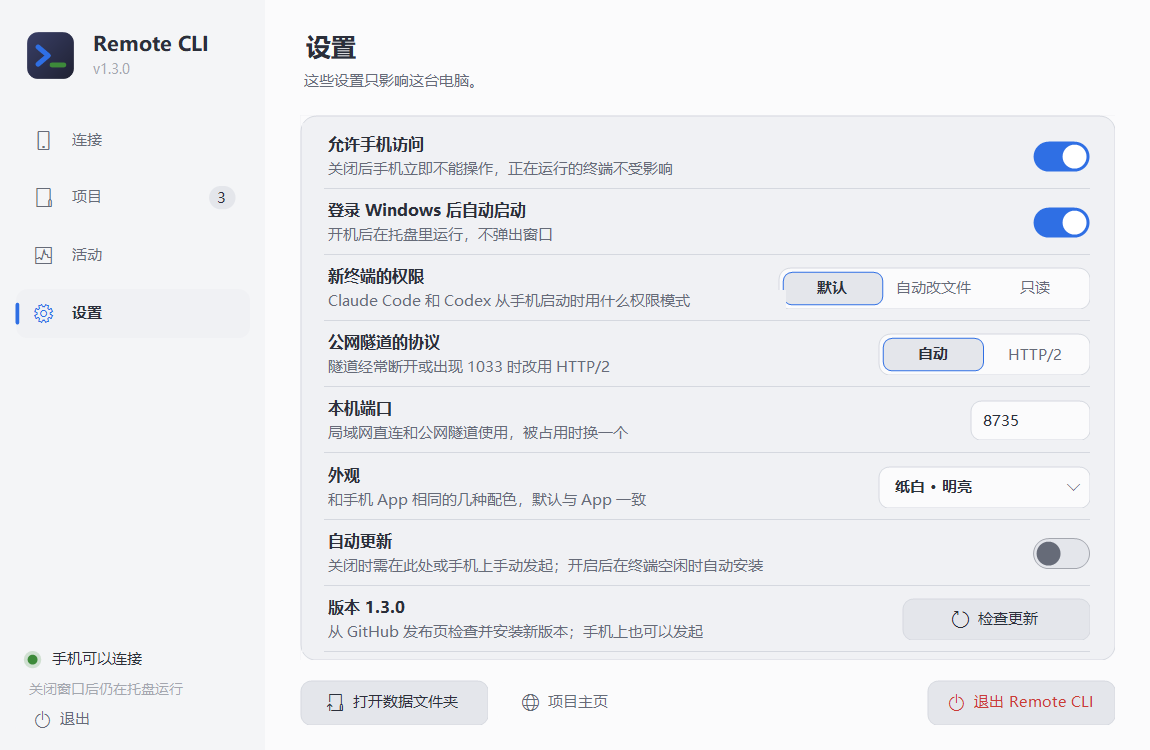
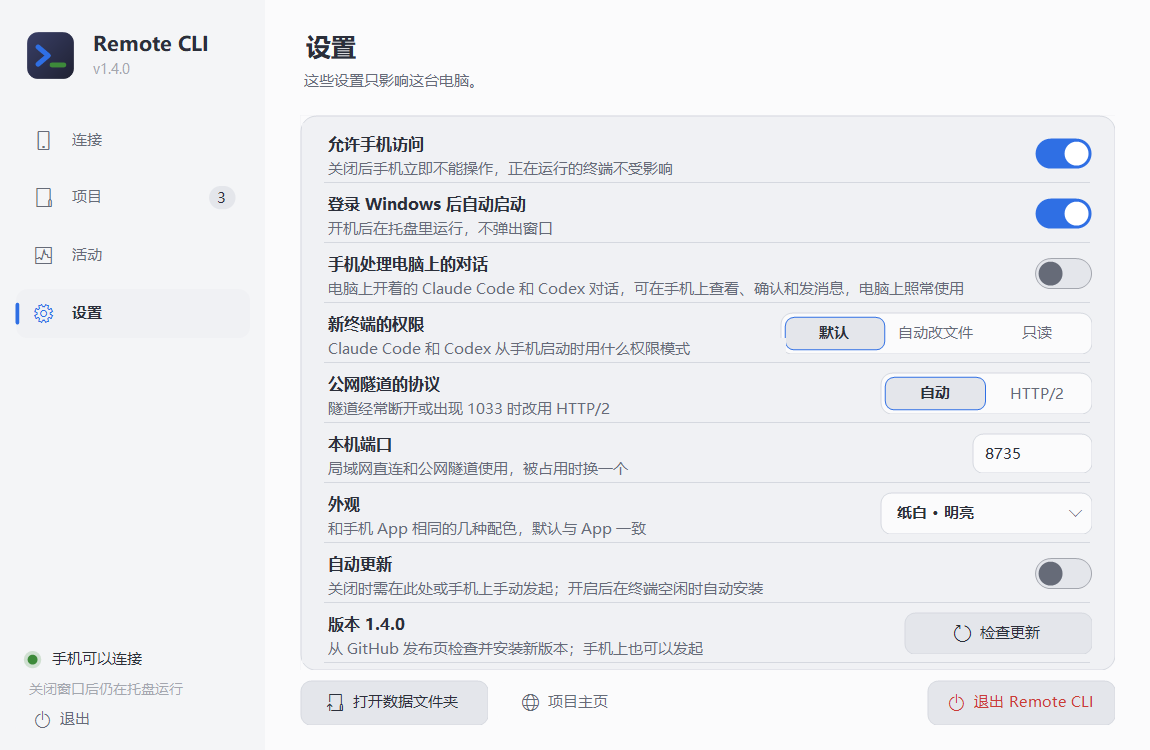
chore(release): 1.4.0; the picture of the settings shows the new switch

diff --git a/tests/phone_line_check.py b/tests/phone_line_check.py
@@ -173,10 +173,11 @@ def pages(chrome, out, folder, first, addresses, config):
         assert value("!document.getElementById('more') && !document.getElementById('look')")
         press("document.getElementById('settings')")
         until(lambda: (value("location.pathname") or "").endswith("/computer/") and value("document.querySelectorAll('#lines li').length") == 3
-              and value("document.querySelectorAll('#settings .pick, #settings .flip').length") == 4, "the page of settings", 20)
+              and value("document.querySelectorAll('#settings .pick, #settings .flip').length") == 5, "the page of settings", 20)
         # the lines (the local network, the tunnel, and one row for the relays of one's own: there are none for everyone
-        # here), the four settings and the version of the program; the look; signing out. The app's own row is for the app
-        assert value("document.querySelectorAll('#settings li').length") == 5 and value("document.querySelectorAll('#skins button').length") >= 6
+        # here), the five settings and the version of the program; the look; signing out. The app's own row is for the app.
+        # A copy with a data folder of its own, as this one, has not put its hooks into the tools' settings: that switch is off
+        assert value("document.querySelectorAll('#settings li').length") == 6 and value("Array.from(document.querySelectorAll('#settings li')).find(li => li.textContent.includes('手机处理电脑上的对话')).querySelector('.flip').getAttribute('aria-checked')") == "false" and value("document.querySelectorAll('#skins button').length") >= 6
         assert value("document.getElementById('part-app').hidden") is True and value("document.querySelector('#account b').textContent") == "退出登录"
         assert value("document.querySelector('#lines li.current b').textContent") == "自己的中转" and addresses[0].split("://")[1] in value("document.querySelector('#lines li.current small').textContent"), value("document.getElementById('lines').innerText")
         assert "http" not in value("document.getElementById('lines').innerText")

diff --git a/agent-windows/Setup.cs b/agent-windows/Setup.cs
@@ -15,7 +15,7 @@ namespace RemoteCli {
 ///   --quiet            no questions and no start afterwards
 ///   --dir <folder>     where to install (default: the folder of an earlier installation, else %LOCALAPPDATA%\Programs\RemoteCli)
 public static class Setup {
-    const string Version = "1.3.2", Name = "Remote CLI";
+    const string Version = "1.4.0", Name = "Remote CLI";
     // REMOTECLI_SETUP_SANDBOX=1 is for the tests: its own registry entry and shortcut names, and no look at a running
     // copy, so trying the installer never touches a real installation.
     static readonly bool Sandbox = Environment.GetEnvironmentVariable("REMOTECLI_SETUP_SANDBOX") == "1";

diff --git a/agent-windows/RemoteCliApp.cs b/agent-windows/RemoteCliApp.cs
@@ -22,7 +22,7 @@ namespace RemoteCli {
 /// The program on the computer: a small window and a tray icon around the relay, the optional tunnel and the
 /// terminal agent. Everything it starts ends when it exits.
 public sealed partial class App : Form {
-    const string Version = "1.3.2";
+    const string Version = "1.4.0";
     const string TunnelDownload = "https://github.com/cloudflare/cloudflared/releases/latest/download/cloudflared-windows-amd64.exe";
     readonly string appDir = AppDomain.CurrentDomain.BaseDirectory.TrimEnd('\\');
     readonly string dataDir = TerminalAgent.DefaultData;

diff --git a/tools/package_windows.py b/tools/package_windows.py
@@ -13,7 +13,7 @@ import zipfile
 from pathlib import Path
 
 ROOT = Path(__file__).resolve().parents[1]
-VERSION = "1.3.2"
+VERSION = "1.4.0"
[1 lines of base64/hex data omitted]
 # Parts of the embeddable Python the relay never loads.
 UNUSED = ("_msi.pyd", "_sqlite3.pyd", "sqlite3.dll", "_elementtree.pyd", "pyexpat.pyd", "_wmi.pyd", "_zoneinfo.pyd", "winsound.pyd",

diff --git a/relay/server.py b/relay/server.py
@@ -27,7 +27,7 @@ sys.path.insert(0, os.path.dirname(os.path.abspath(__file__)))   # an embedded P
 import relay  # noqa: E402
 import websocket  # noqa: E402
 
-VERSION = "1.3.2"
+VERSION = "1.4.0"
 SESSION_DAYS = 90
 LOGIN_TRIES, LOGIN_LOCK, LOGIN_TRIES_ALL = 6, 900, 40
 BODY_LIMIT = 4 * 1024 * 1024
